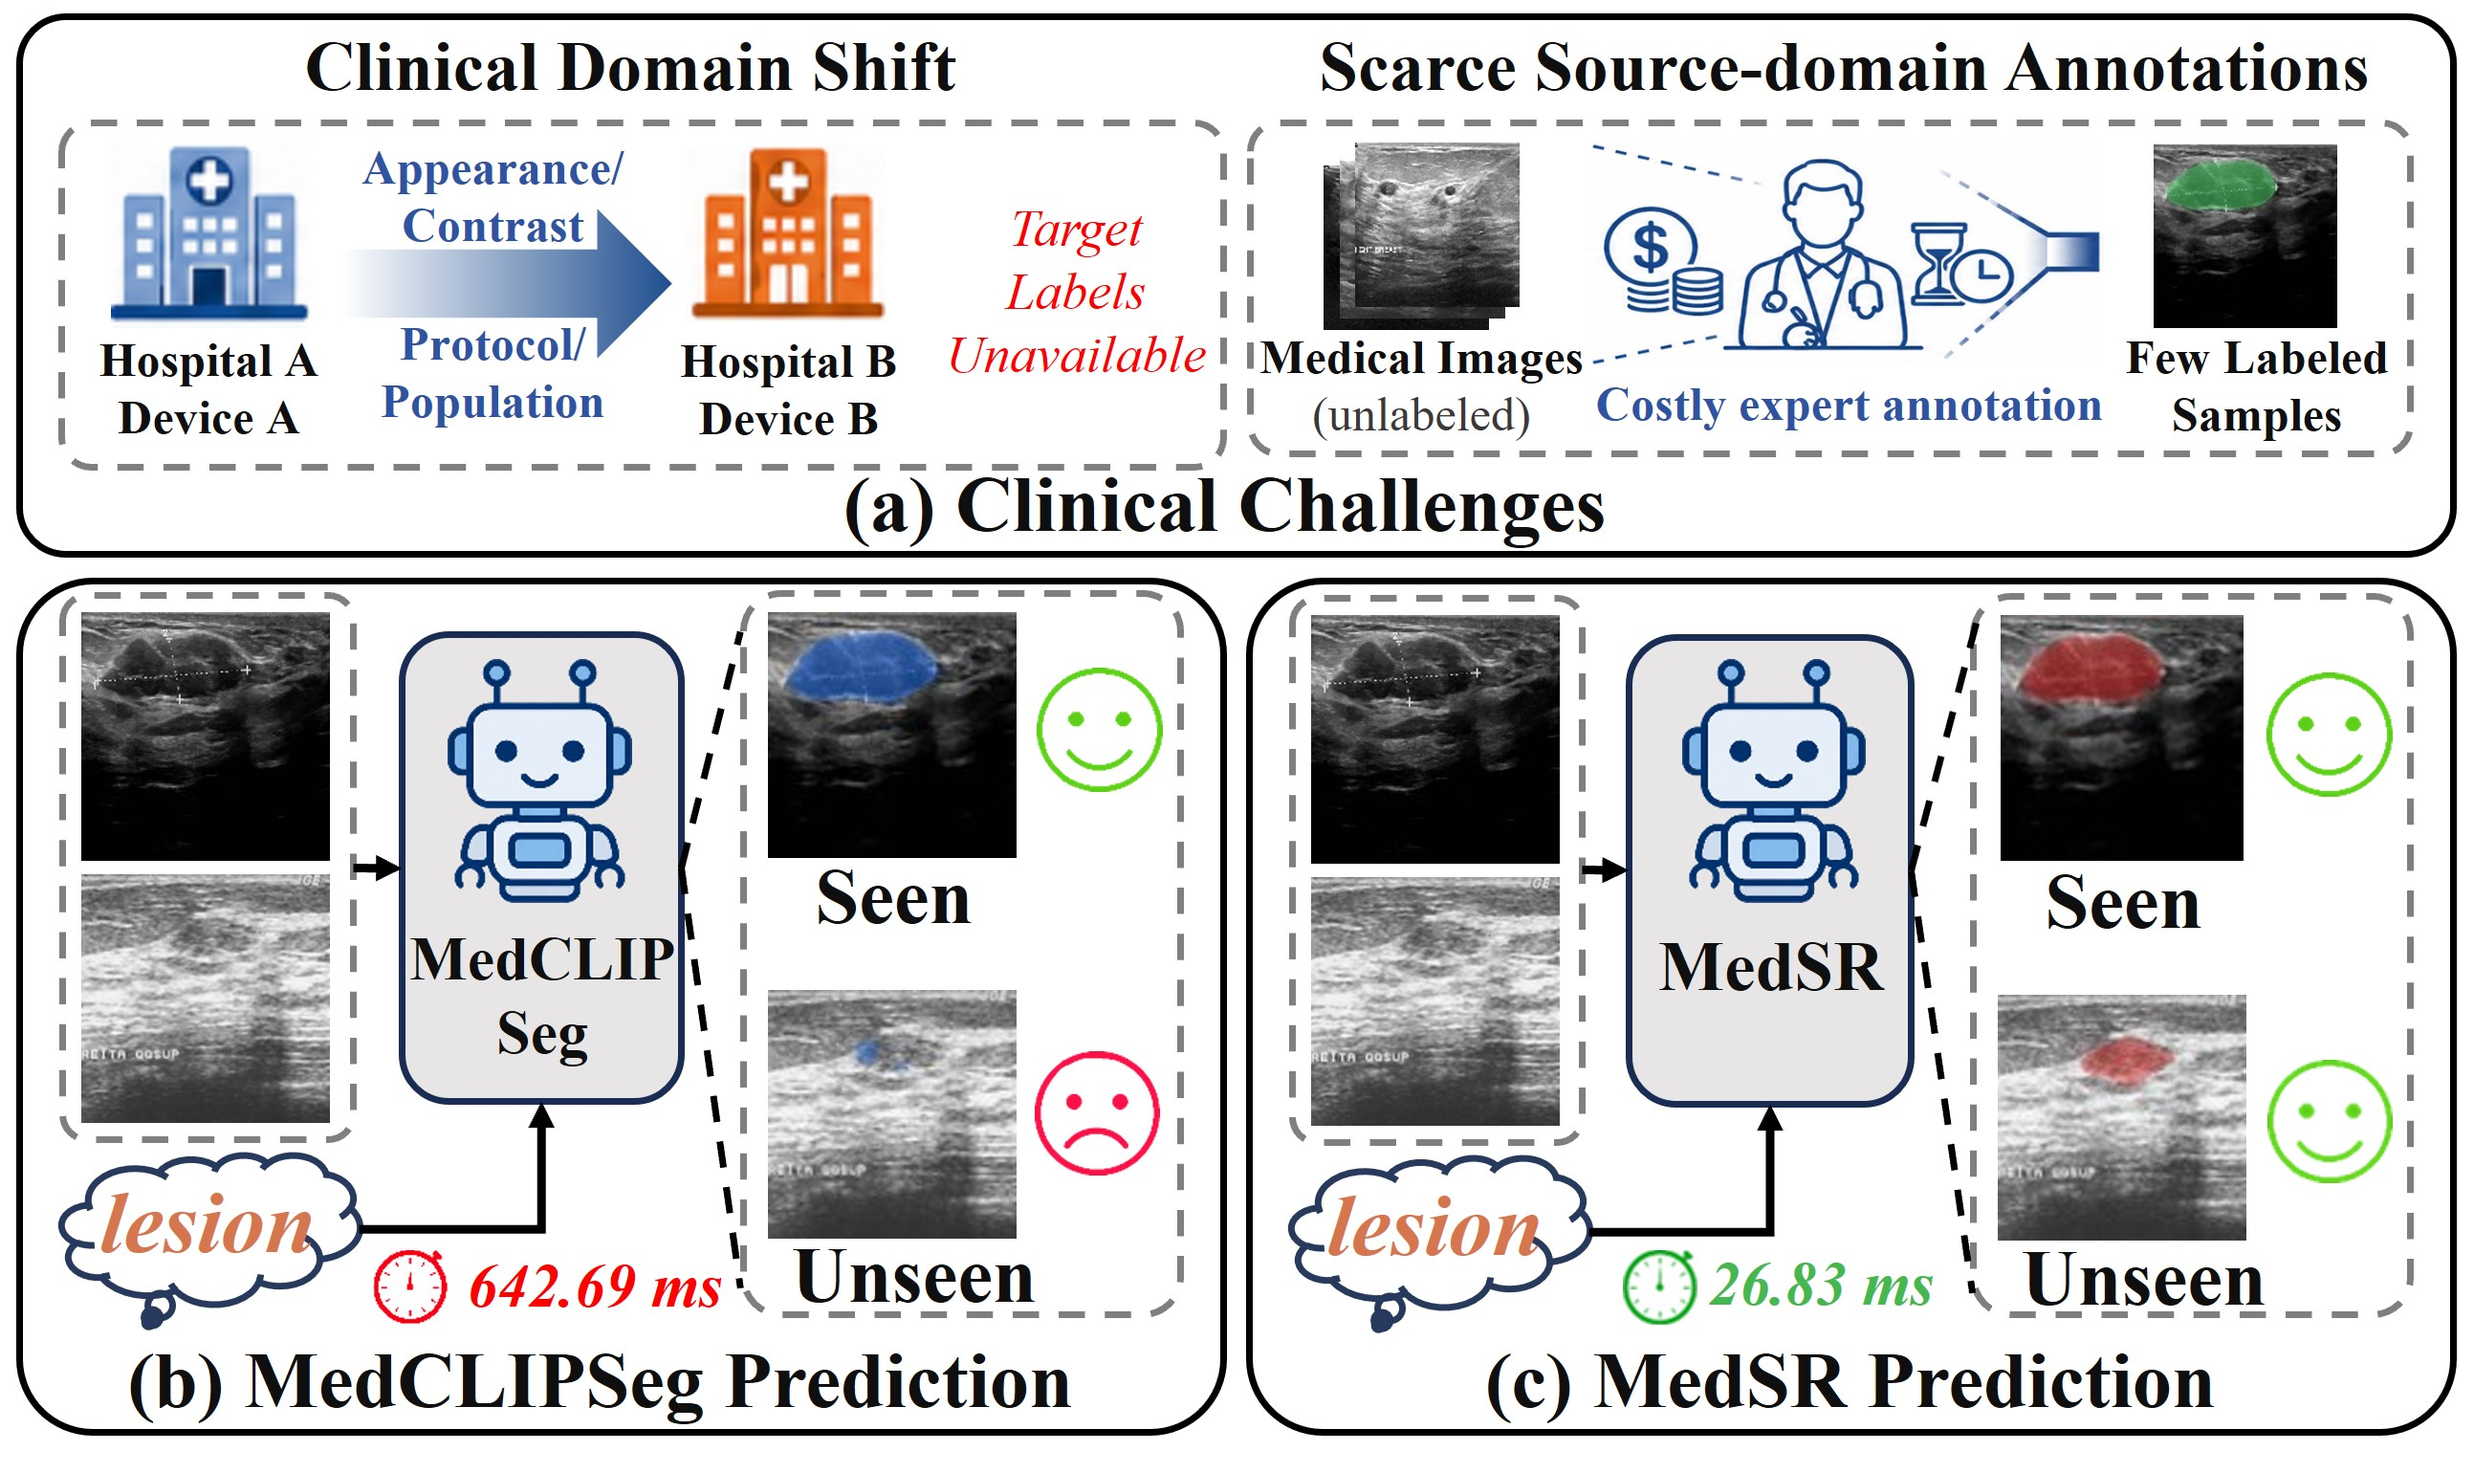
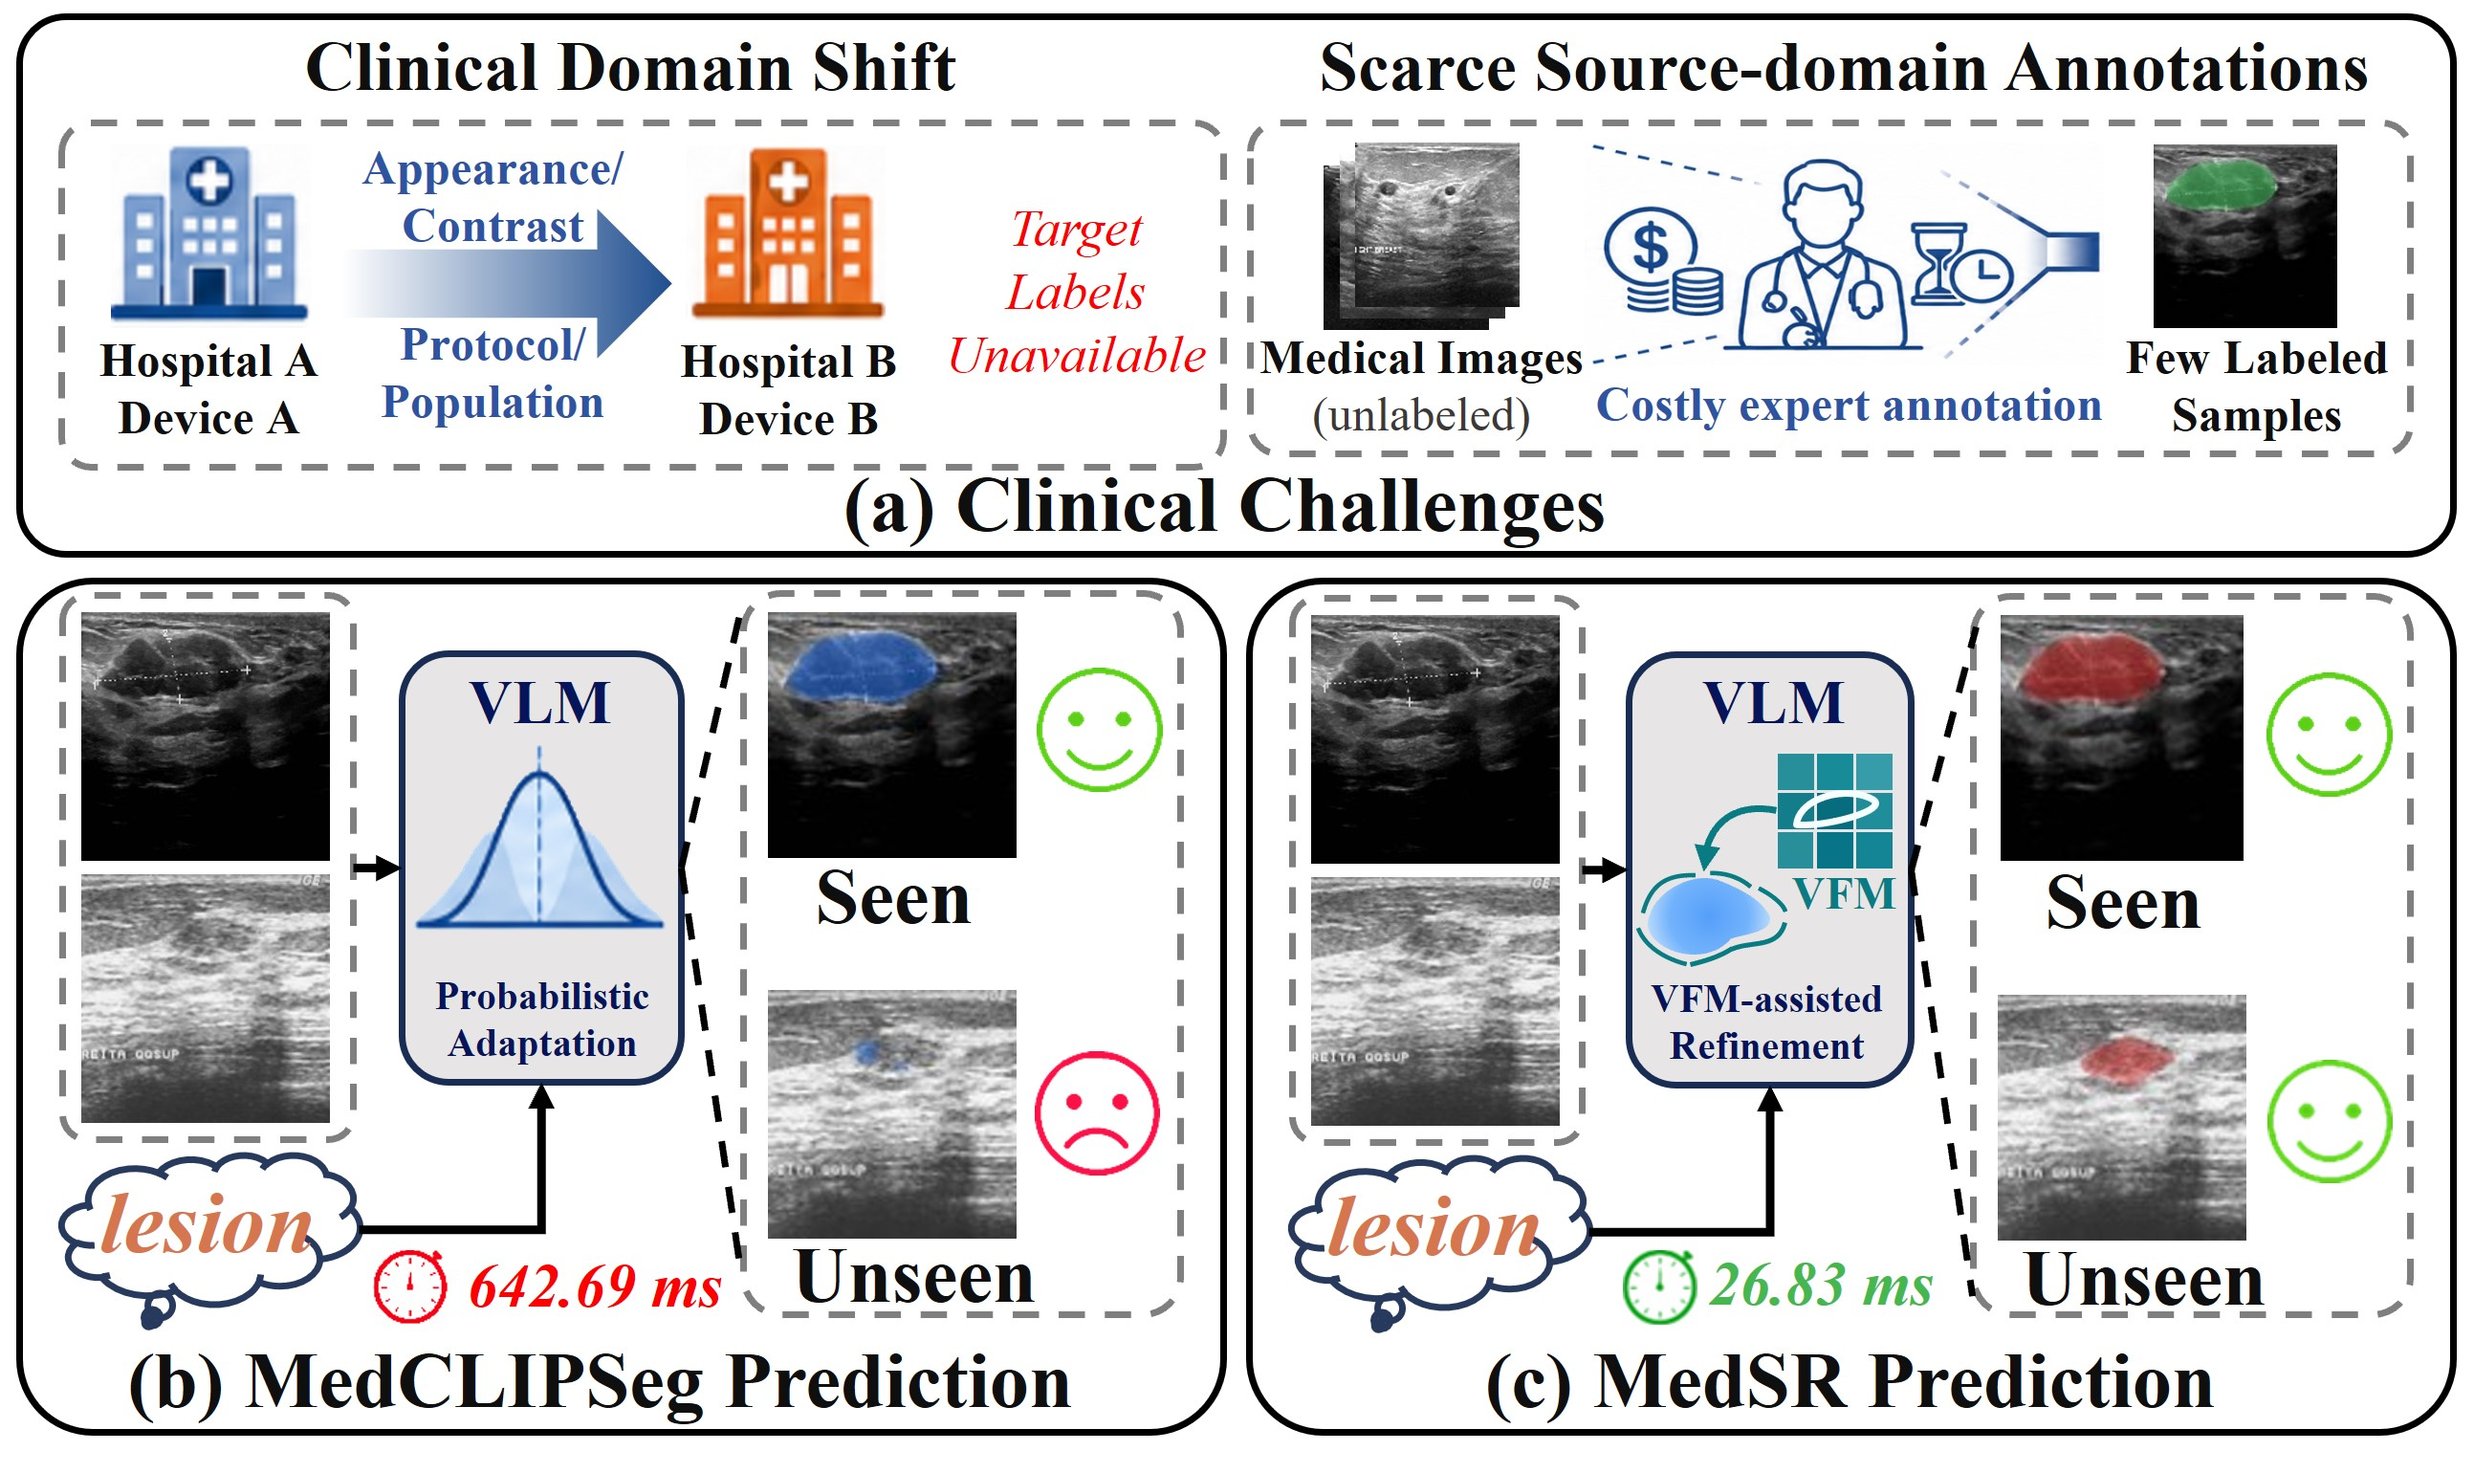
up

Changed region(s): [[0.6494, 0.4052, 0.7731, 0.7792], [0.1546, 0.4052, 0.2783, 0.7792]]

diff --git a/README.md b/README.md
@@ -8,7 +8,7 @@ This repository contains the official PyTorch implementation of MedSR.
   <img src="assets/motivation.jpg" width="100%" alt="Clinical challenges and MedSR motivation" />
 </p>
 
-> **Abstract:** Medical image segmentation remains challenging due to scarce pixel-level annotations, ambiguous target boundaries, and domain shifts. We propose MedSR, a selective refinement framework that combines Pixel-Level Adaptation, Structure-Aware Refinement, and Adaptive Mask Selection. MedSR adapts frozen vision-language representations for dense prediction with learnable textual context and bidirectional cross-attention, then integrates complementary multi-level structural features from a frozen vision foundation model. Adaptive Mask Selection mitigates mask collapse by selecting between semantic-aware and structure-refined masks. Experiments on ten unseen target datasets and four source datasets demonstrate strong generalizability, data efficiency, and inference efficiency.
+> **Abstract:** Medical image segmentation remains challenging due to scarce pixel-level annotations, ambiguous target boundaries, and domain shifts. Vision-language models offer strong cross-modal representations, but their image-level representations may not sufficiently capture the spatial details required for pixel-level medical segmentation. This motivates adapting transferable semantics to pixel-level prediction to improve target localization and spatial detail. In this paper, we propose MedSR, a selective refinement framework for data-efficient and generalizable medical image segmentation, which comprises three components, including Pixel-Level Adaptation, Structure-Aware Refinement, and Adaptive Mask Selection. Pixel-Level Adaptation introduces learnable textual context and bidirectional cross-attention to adapt vision-language representations for pixel-level segmentation, providing a semantic-aware target mask. Then, Structure-Aware Refinement fuses multi-level features from a frozen vision foundation model and semantic-aware features to generate a structure-refined target mask. During refinement, we also observe that foreground regions captured by the semantic-aware mask may be lost, leading to mask collapse. Adaptive Mask Selection therefore chooses between the semantic-aware and structure-refined target masks to mitigate this risk. Extensive experiments on ten unseen target datasets and four source datasets spanning four imaging modalities demonstrate the generalizability and data efficiency of MedSR. MedSR achieves an average Dice similarity coefficient of 80.03% across ten unseen target datasets and 82.41% across four source datasets using only 10% of their annotations. It requires only 26.83 ms per image on a single A6000, yielding a 23.95$\times$ inference speedup over MedCLIPSeg.
 
 ## Method
 
@@ -100,10 +100,8 @@ Task-specific MedSR checkpoints are available on [Hugging Face](https://huggingf
 The released checkpoints preserve the output layout generated by the paper scripts. For example, the full-supervision BUSI checkpoint evaluated with seed 666 is located at:
 
 ```text
-outputs/medsr/ALL_multi_run/BUS/run_1/BUSI/trained_models/seed666/MedSR_ViT-B-16_latest.pth
+outputs/medsr/ALL_multi_run/BUS/run_1/BUSI/trained_models/seed666/MedSR_ViT-B-16.pth
 ```
-
-All released checkpoints are `latest` checkpoints; retain the default setting `TEST.USE_LATEST: True`.
 
 ## Installation
 
